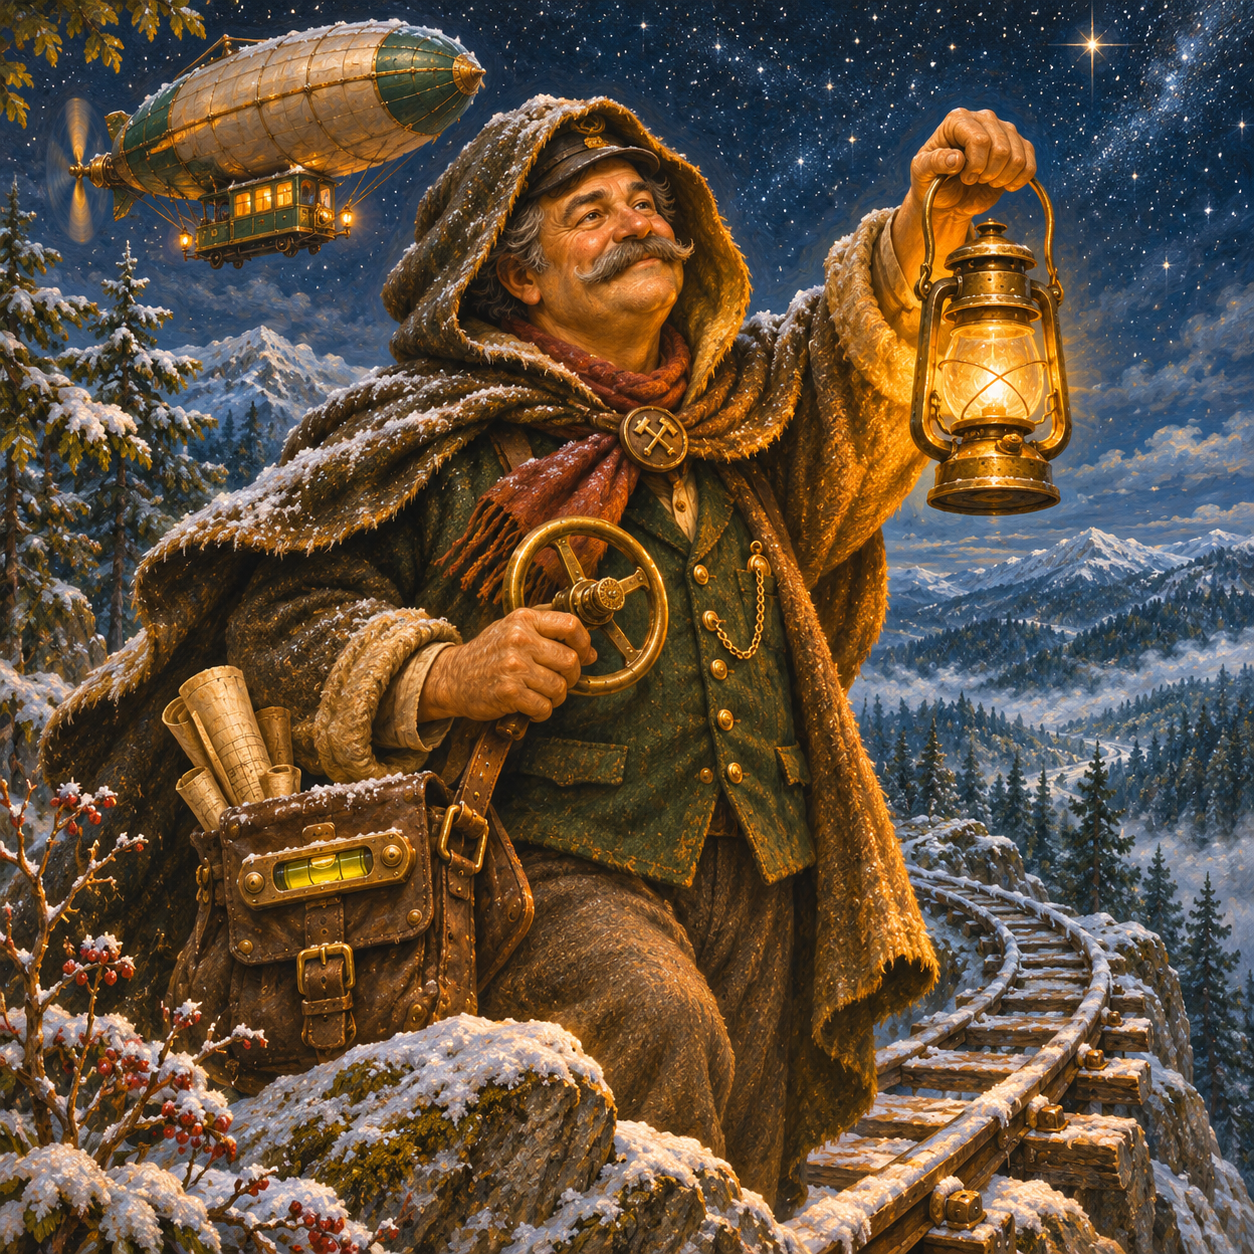
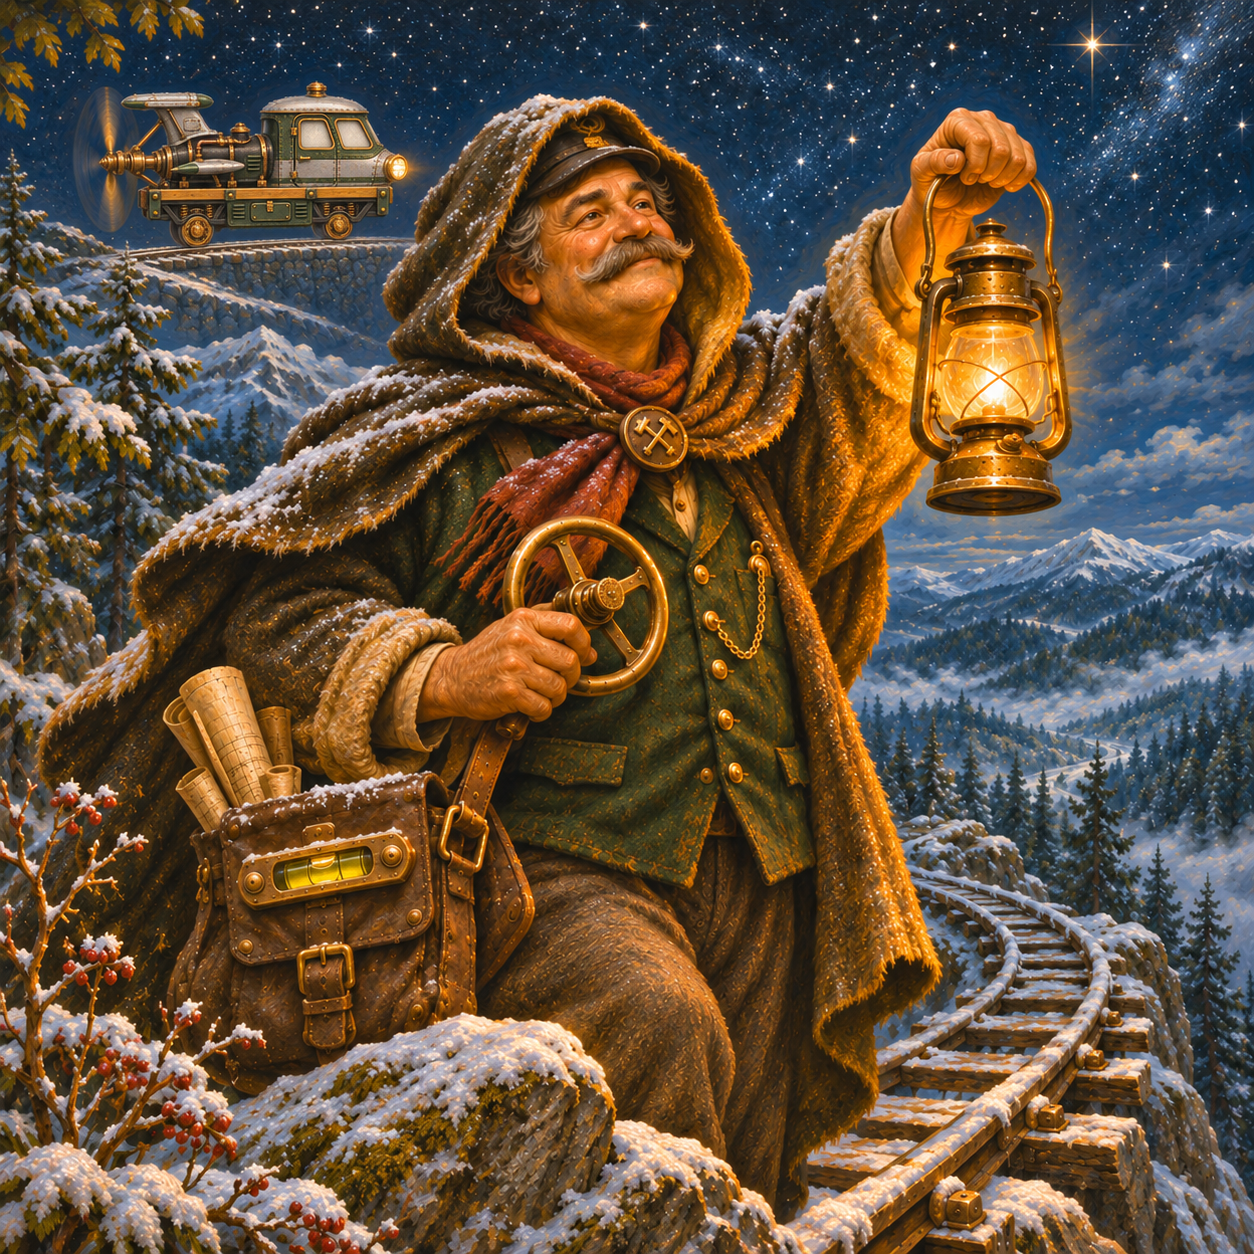
Комплект П11: иконки гаджетов для полировки в GPT; очередь работает через локальный диск

diff --git a/tools/art_sources/briefs/P11_gadget_icons/TASK_FOR_GPT.md b/tools/art_sources/briefs/P11_gadget_icons/TASK_FOR_GPT.md
@@ -1,0 +1,41 @@
+# TASK FOR GPT: pack П11 (Иконки гаджетов)
+
+You are the art generator for "Лесная колея" (Forest Rail), a cozy 2D side-view narrow-gauge forest railway game. Produce the images below ONE BY ONE, one finished image per message, following the style rules in the project instructions (hand-painted painterly look, warm and slightly worn, forest green #466c51, charcoal steel #29383b, honey wood, cream #f5ecd6, aged brass #bb964f, soft light from the upper left, strict flat side view, no letters or numbers, subject centered with margins, flat pure magenta #FF00FF background unless another is named, no shadows or glow touching the background).
+
+## References
+Open each reference (or use the files the owner attached). The two ref_style_* images are the STYLE ANCHORS; match them exactly.
+
+If you read the repository through a GitHub connection, the same files are in the repo at tools/art_sources/briefs/P11_gadget_icons/ :
+
+- tools/art_sources/briefs/P11_gadget_icons/ref_icons_sketch.jpg
+
+If the repository is public, the direct links are:
+
+- https://raw.githubusercontent.com/CPUadmin/ForestRail/main/tools/art_sources/briefs/P11_gadget_icons/ref_icons_sketch.jpg
+
+## First message of the pack
+
+```text
+Attached is ref_icons_sketch.jpg: a rough sketch sheet of 18 gadget icons for a cozy narrow-gauge forest railway game (each on a brass-and-green plate with a caption below it). I will ask for two sheets of 3 by 3 icons. Repaint every icon beautifully and cleanly, keeping the object and composition of each: hand-painted look, STRONG VOLUME (bold rounded relief, deep shadows, clear lit and shaded sides), warm light from the upper left, aged brass, forest green, steel, cream, one red accent. Do NOT draw the plate or any frame: only the object, centered, with wide margins, on a flat pure magenta #FF00FF background, no ground shadow, no glow touching the background. No letters, no numbers, no text. In each sheet the nine icons have the same scale, one per cell, no overlaps, no cell lines.
+```
+
+## Images
+
+### 1. gadget_icons_1.png
+
+Format: 1:1. Background: magenta.
+
+```text
+Asset: gadget_icons_1. Format: square 1:1. Background: flat pure magenta #FF00FF. Sheet 3 by 3, exactly nine icons in this order (left to right, top to bottom): 1 pogo pole with a coiled spring and a handle; 2 mechanical stoker: a screw conveyor feeding coal to a furnace with a coal hopper; 3 wind vane autopilot: a red weather vane on a post with wind curls; 4 spare air cylinder: a green gas cylinder with brass valve and pressure gauge; 5 automatic gearbox: two meshed brass gears and a gear lever with a red knob; 6 automatic pressure reducer: a round brass pressure gauge with red and green zones; 7 ratchet: a steel ratchet gear with a pawl and arrows in both directions; 8 supercapacitor: a blue capacitor with terminals and a golden lightning bolt; 9 nitrous oxide: a blue bottle with a nozzle and a blue-orange flame. Keep the shapes of the sketch.
+```
+
+### 2. gadget_icons_2.png
+
+Format: 1:1. Background: magenta.
+
+```text
+Asset: gadget_icons_2. Format: square 1:1. Background: flat pure magenta #FF00FF. Sheet 3 by 3, exactly nine icons in this order (left to right, top to bottom): 1 trimmer: a round dial with fine ticks and a needle plus a spirit level with a bubble; 2 flywheel: a heavy steel wheel with a green face, brass hub and an orange arrow ring of motion; 3 liquid cooling: a brass radiator with blue coolant tubes and blue water drops; 4 grappling hook with winch: a steel grapnel hook on a rope and a wooden winch drum; 5 double parachute: one red and one cream parachute canopy with lines and a small green box; 6 steam superheater: brass pipe coil in three loops with puffs of steam; 7 afterburner: a steel jet nozzle with a long red-orange-yellow flame; 8 spinnaker: a big red and cream billowing sail on a wooden mast; 9 wing flaps: a steel wing with a brass flap tilted down and curved air currents. Keep the shapes of the sketch, but improve the weak ones (grappling hook, spinnaker, wing flaps, wind vane) so that they read clearly.
+```
+
+## Delivery
+After each image say its exact file name (as above) and which background you used. When all are done, list the file names in order. The owner saves them into `tools/art_sources/inbox/P11_gadget_icons/` with exactly these names. If an image fails the checks in the brief (letters, shadows, cropped subject, checkerboard instead of a flat background), redo it once before showing it.

diff --git a/tools/art_sources/briefs/P11_gadget_icons/BRIEF_RU.md b/tools/art_sources/briefs/P11_gadget_icons/BRIEF_RU.md
@@ -1,0 +1,32 @@
+# Комплект П11 «Иконки гаджетов»: отполировать эскиз
+
+18 иконок гаджетов (по числу карточек Таро). Эскиз нарисован кодом (`ref_icons_sketch.jpg`), нужно перерисовать красиво, сохранив предмет и композицию каждой иконки. Плашку (латунно-зелёная) рисует игра, вам нужен только предмет. Иконки идут на рубашку карточки и в мастерскую.
+
+Два листа 3 на 3. Файлы кладутся в `tools/art_sources/inbox/P11_gadget_icons/` с точными именами.
+
+## Первое сообщение (блок 0)
+
+```text
+Attached is ref_icons_sketch.jpg: a rough sketch sheet of 18 gadget icons for a cozy narrow-gauge forest railway game (each on a brass-and-green plate with a caption below it). I will ask for two sheets of 3 by 3 icons. Repaint every icon beautifully and cleanly, keeping the object and composition of each: hand-painted look, STRONG VOLUME (bold rounded relief, deep shadows, clear lit and shaded sides), warm light from the upper left, aged brass, forest green, steel, cream, one red accent. Do NOT draw the plate or any frame: only the object, centered, with wide margins, on a flat pure magenta #FF00FF background, no ground shadow, no glow touching the background. No letters, no numbers, no text. In each sheet the nine icons have the same scale, one per cell, no overlaps, no cell lines.
+```
+
+### A1 `gadget_icons_1.png`: иконки 0-8
+
+```text
+Asset: gadget_icons_1. Format: square 1:1. Background: flat pure magenta #FF00FF. Sheet 3 by 3, exactly nine icons in this order (left to right, top to bottom): 1 pogo pole with a coiled spring and a handle; 2 mechanical stoker: a screw conveyor feeding coal to a furnace with a coal hopper; 3 wind vane autopilot: a red weather vane on a post with wind curls; 4 spare air cylinder: a green gas cylinder with brass valve and pressure gauge; 5 automatic gearbox: two meshed brass gears and a gear lever with a red knob; 6 automatic pressure reducer: a round brass pressure gauge with red and green zones; 7 ratchet: a steel ratchet gear with a pawl and arrows in both directions; 8 supercapacitor: a blue capacitor with terminals and a golden lightning bolt; 9 nitrous oxide: a blue bottle with a nozzle and a blue-orange flame. Keep the shapes of the sketch.
+```
+
+### A2 `gadget_icons_2.png`: иконки 9-17
+
+```text
+Asset: gadget_icons_2. Format: square 1:1. Background: flat pure magenta #FF00FF. Sheet 3 by 3, exactly nine icons in this order (left to right, top to bottom): 1 trimmer: a round dial with fine ticks and a needle plus a spirit level with a bubble; 2 flywheel: a heavy steel wheel with a green face, brass hub and an orange arrow ring of motion; 3 liquid cooling: a brass radiator with blue coolant tubes and blue water drops; 4 grappling hook with winch: a steel grapnel hook on a rope and a wooden winch drum; 5 double parachute: one red and one cream parachute canopy with lines and a small green box; 6 steam superheater: brass pipe coil in three loops with puffs of steam; 7 afterburner: a steel jet nozzle with a long red-orange-yellow flame; 8 spinnaker: a big red and cream billowing sail on a wooden mast; 9 wing flaps: a steel wing with a brass flap tilted down and curved air currents. Keep the shapes of the sketch, but improve the weak ones (grappling hook, spinnaker, wing flaps, wind vane) so that they read clearly.
+```
+
+## Чек-лист приёмки
+1. Нет плашки, рамки, букв и цифр.
+2. Ровно девять предметов на листе, по одному в ячейке, одного масштаба, на ровном пурпурном фоне.
+3. Предметы те же, что в эскизе, и читаются как гаджеты.
+4. Стиль: рисованный, сильный объём, свет сверху-слева, палитра игры.
+
+## Что делаю я после получения
+Принимаю, режу листы на 18 иконок, заменяю файлы `ForestRail/assets/art_kazik/gadget_icons/`, проверяю рубашку и мастерскую.

diff --git a/tools/art_sources/ART_QUEUE.md b/tools/art_sources/ART_QUEUE.md
@@ -21,4 +21,5 @@ Never draw letters, numbers or readable text on the images. Never draw the card 
 | pack | what | status | task | inbox |
 |---|---|---|---|---|
 | P10 | 22 tarot card illustrations | DONE | tools/art_sources/briefs/P10_tarot_cards/TASK_FOR_GPT.md | tools/art_sources/inbox/P10_tarot_cards/ |
+| P11 | 18 gadget icons in 2 sheets of 3x3 (repaint of the sketch ref_icons_sketch.jpg) | waiting for GPT | tools/art_sources/briefs/P11_gadget_icons/TASK_FOR_GPT.md | tools/art_sources/inbox/P11_gadget_icons/ |
 | STYLE-TEST | ONE card (Wheel of Fortune) in styles 2-7 for the owner to choose a style; style 1 (painting) already exists as card_10_wheel_of_fortune.png | waiting for GPT | tools/art_sources/briefs/P10_tarot_cards/STYLE_TEST_RU.md (use the English text blocks; send each as its own image) | tools/art_sources/inbox/P10_tarot_cards/styles/ (names style_2_origami.png, style_3_symbolism.png, style_4_minimal_geometry.png, style_5_artdeco.png, style_6_engraving.png, style_7_stained_glass.png) |
